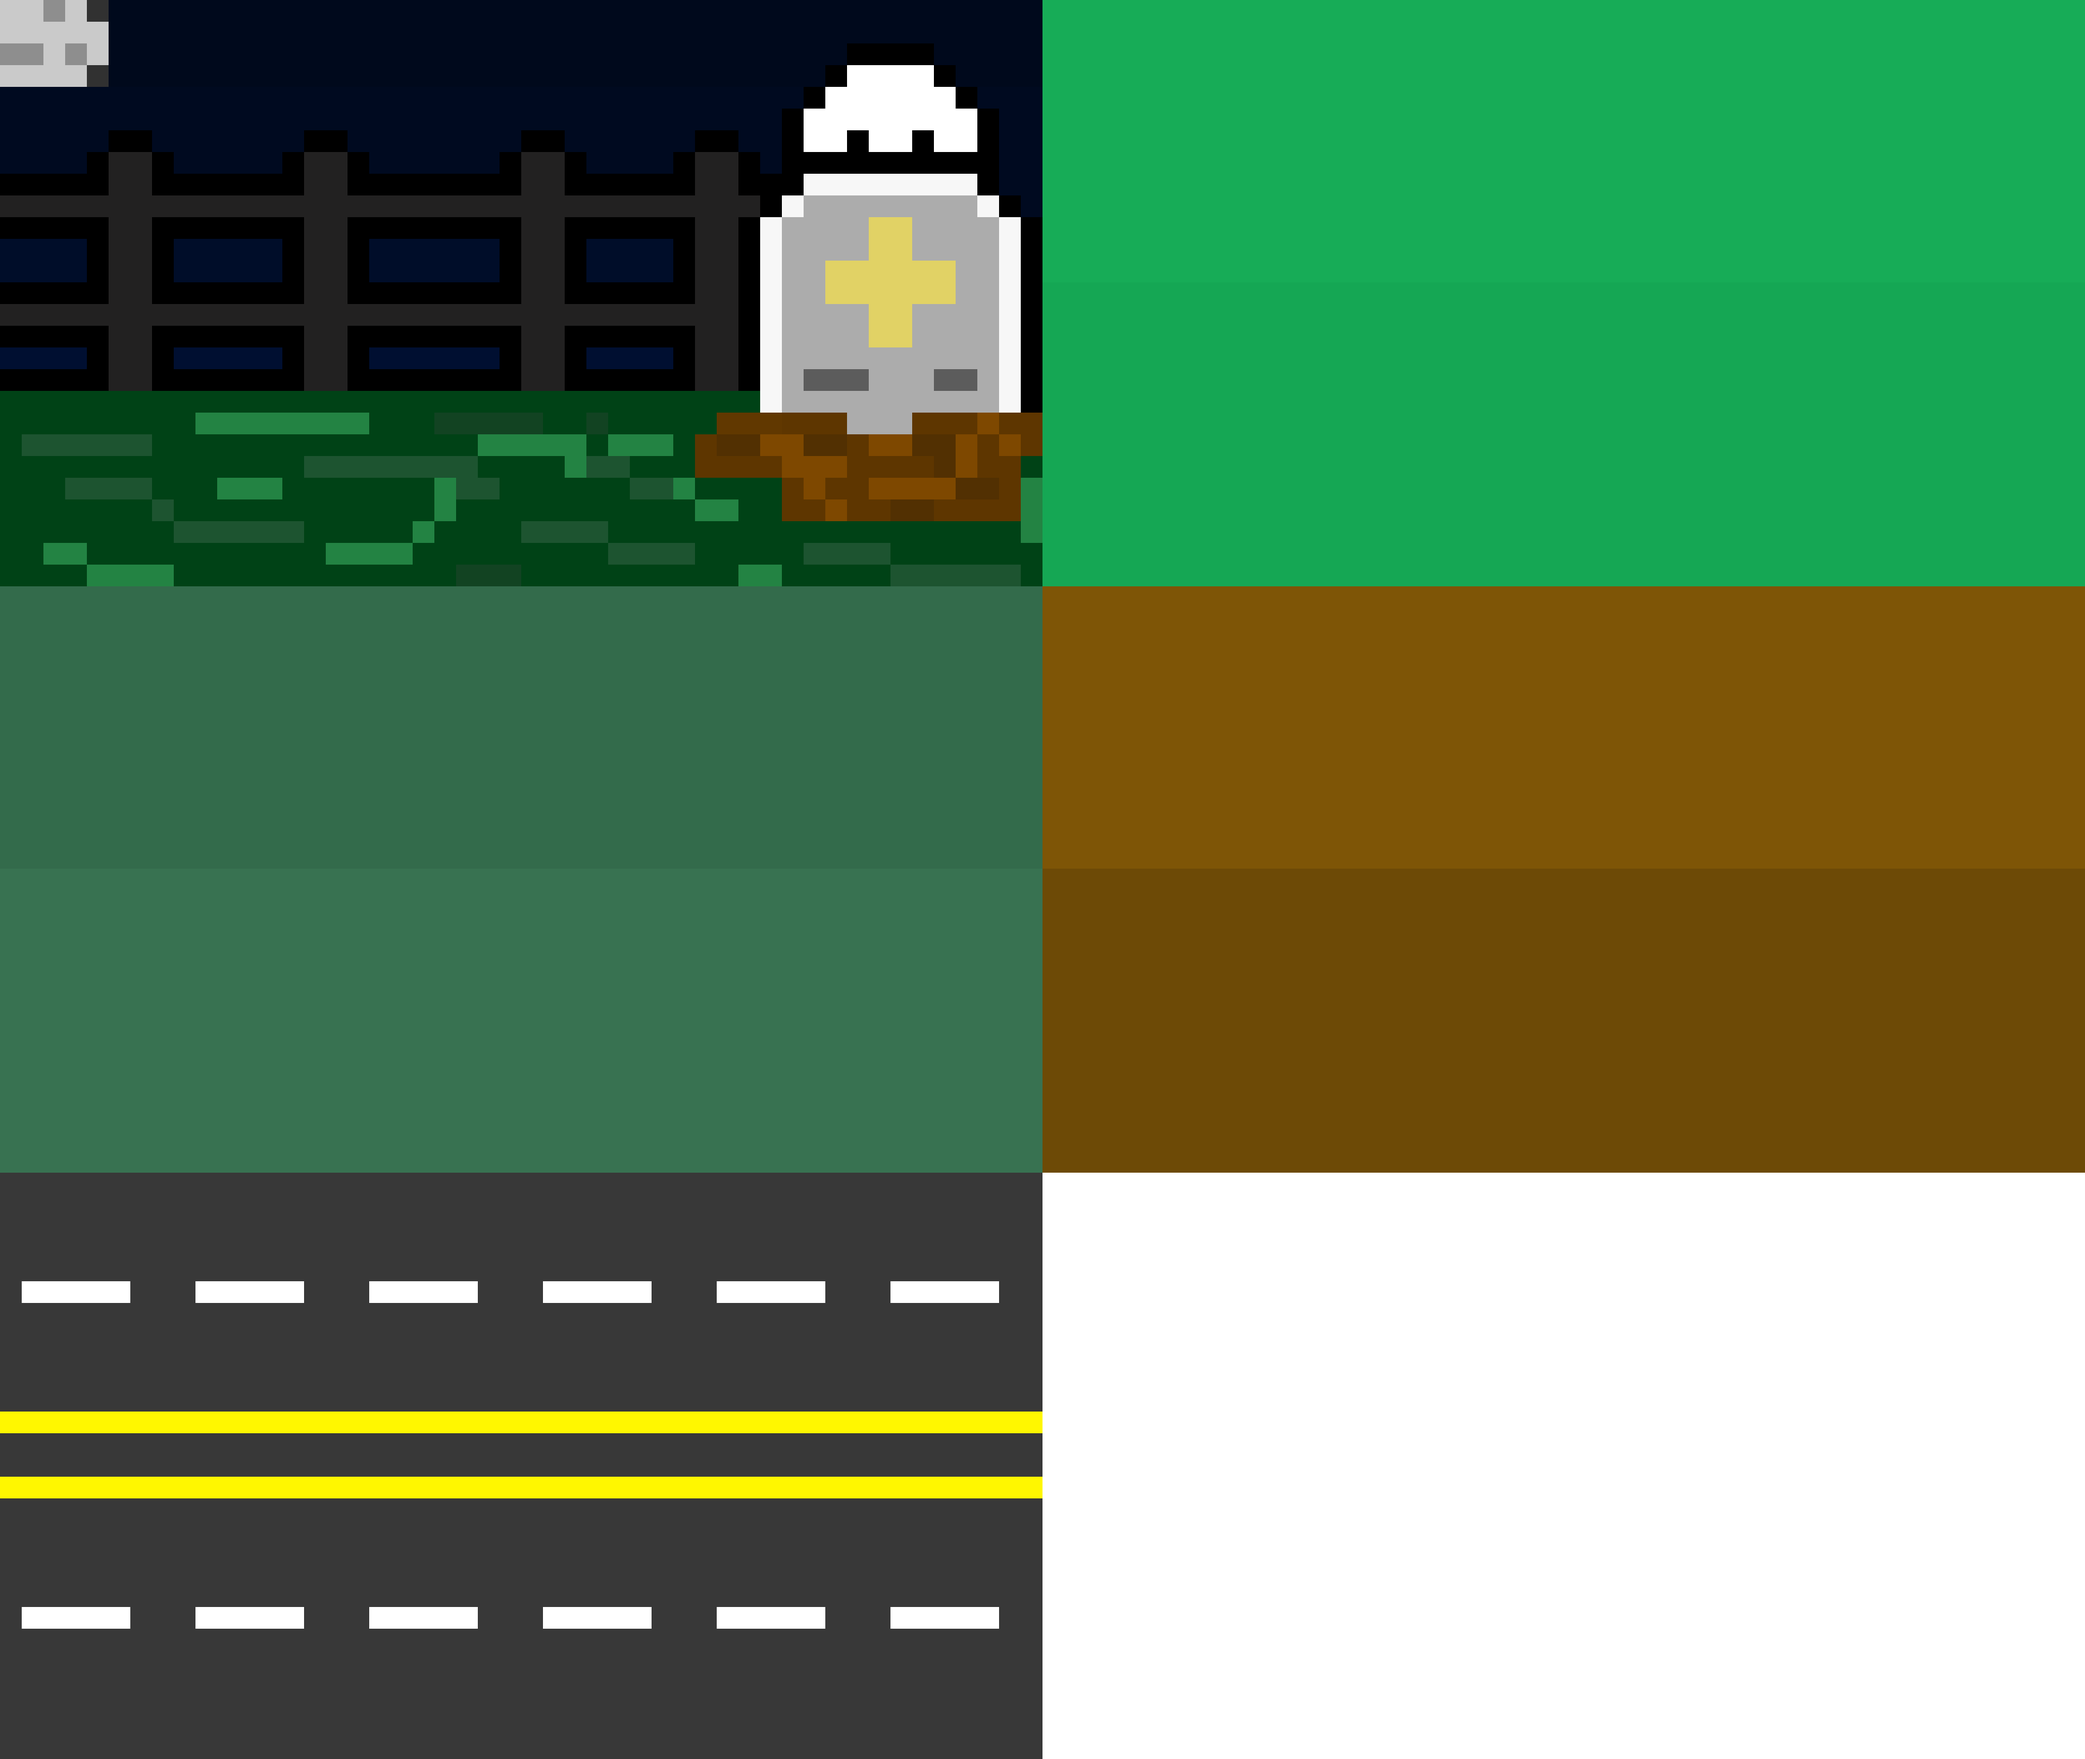
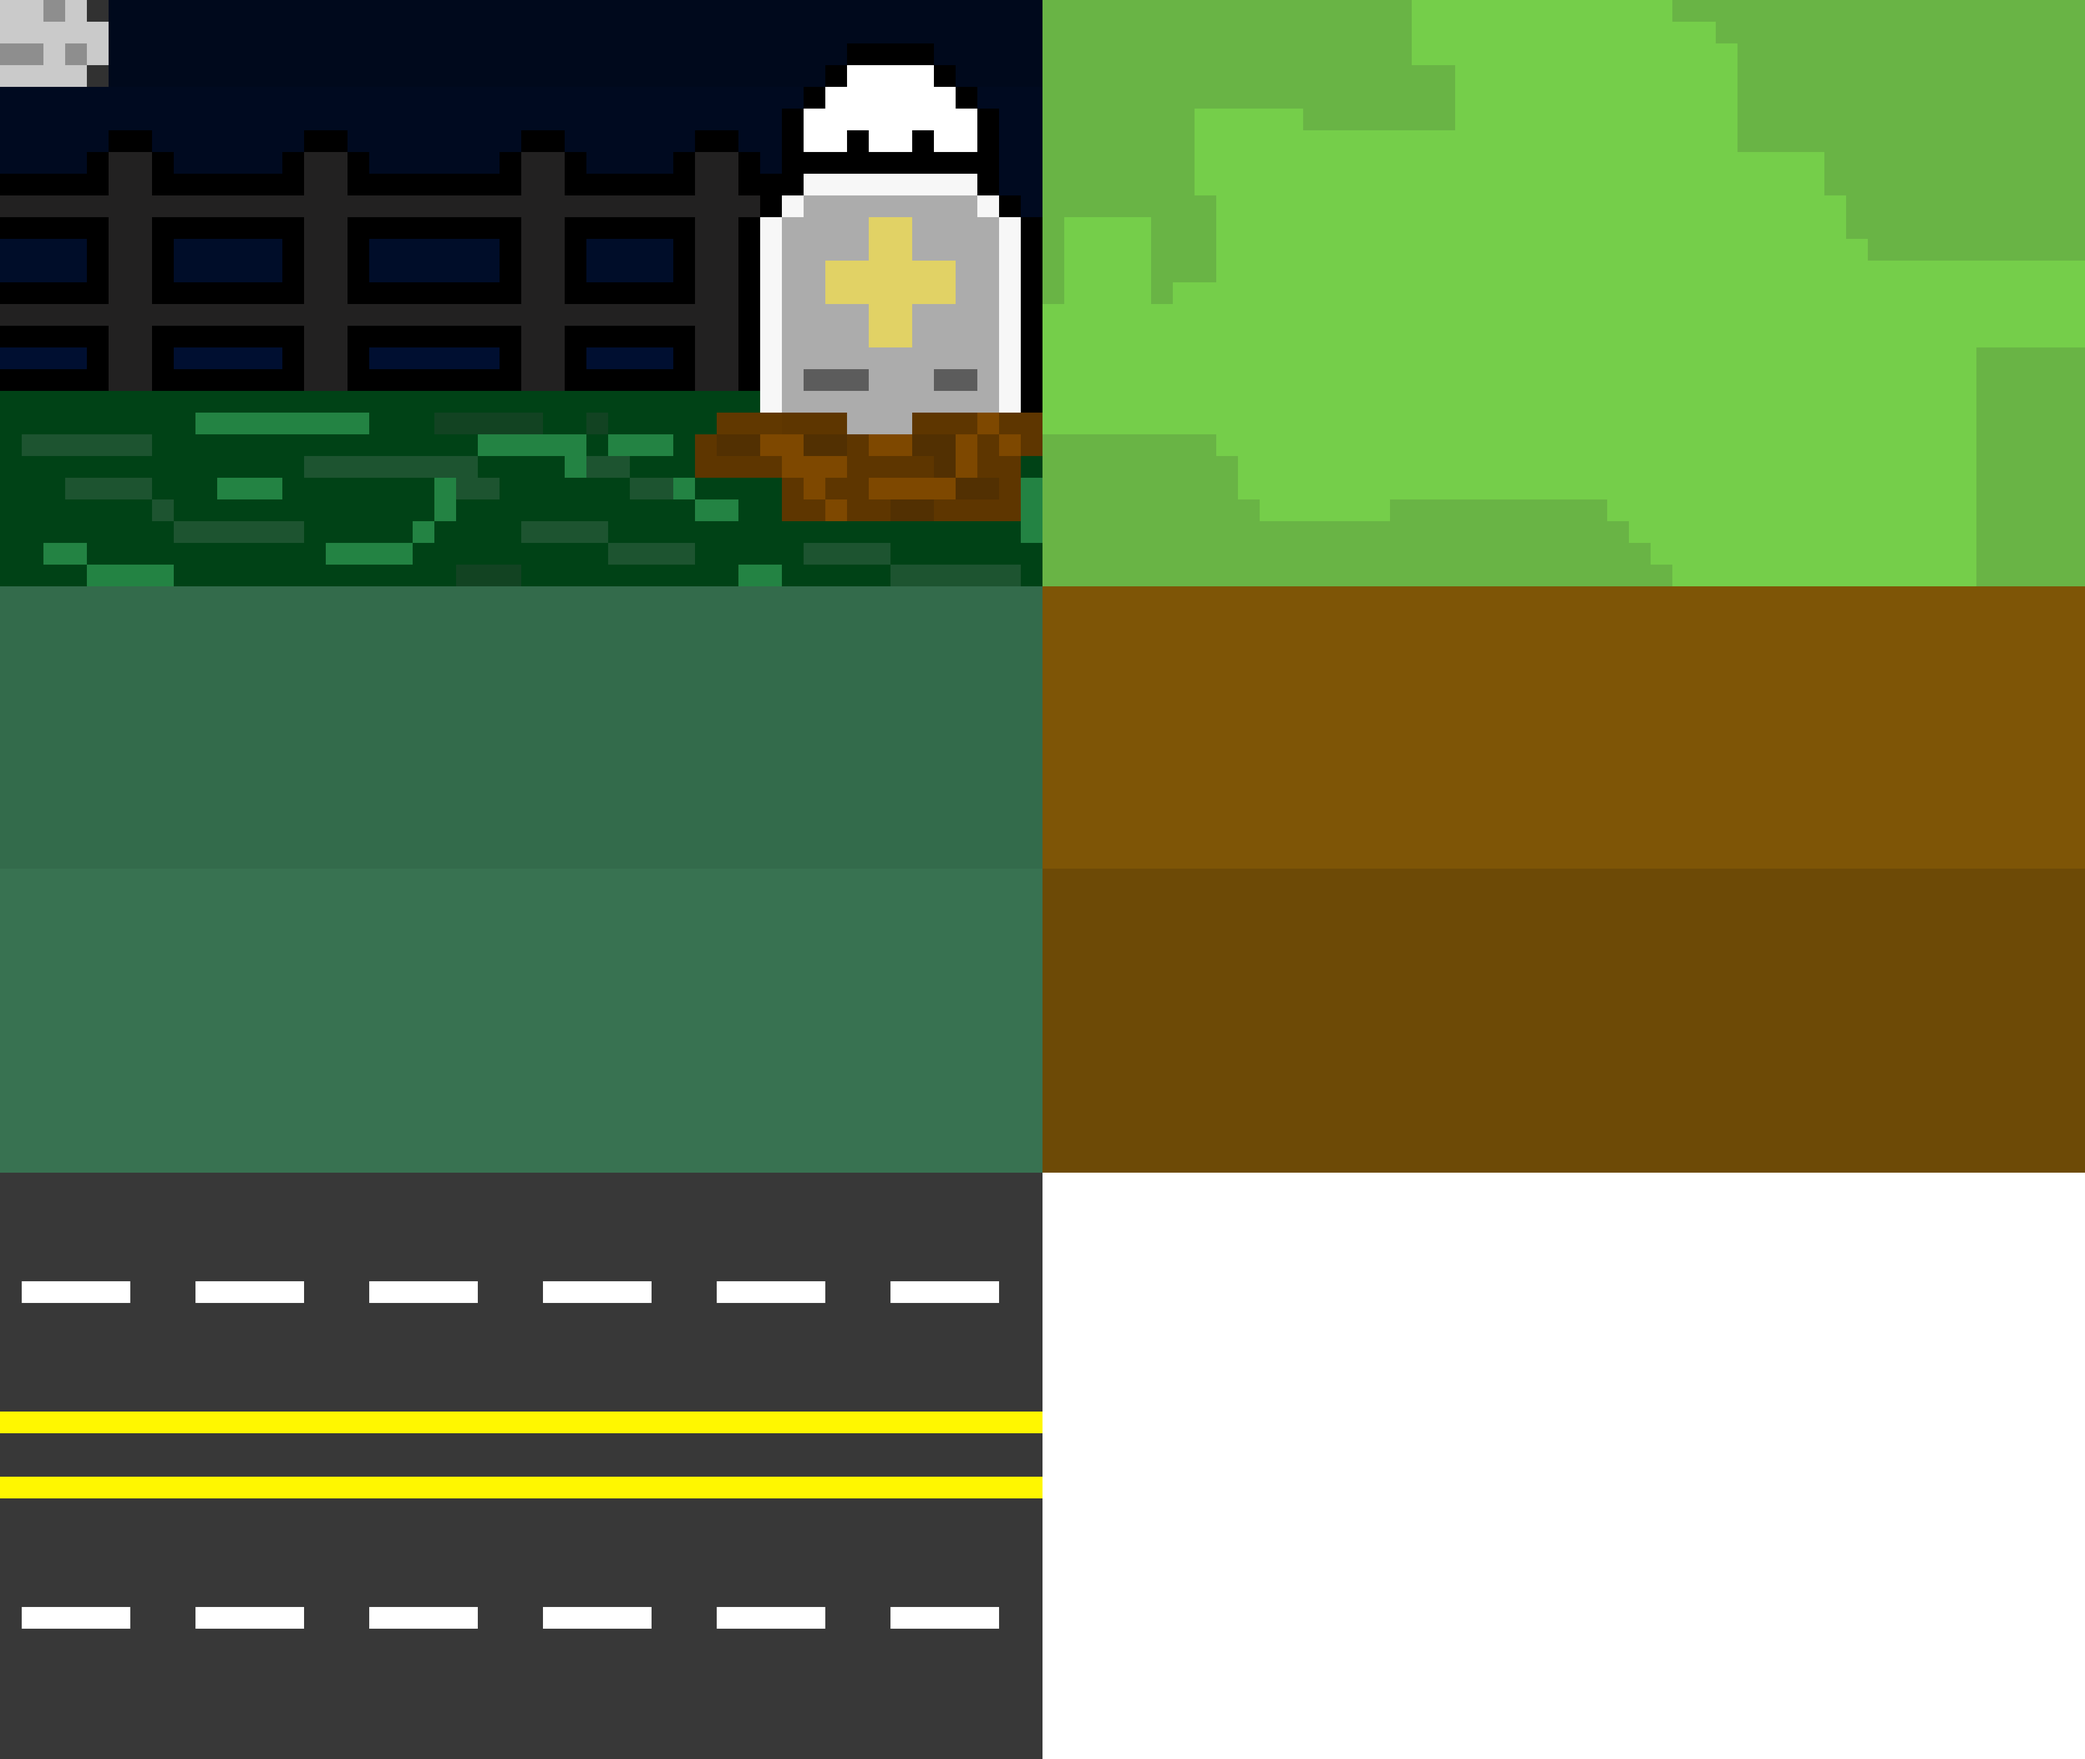
I have made the most cancerous thing known to mankind, a background

Changed region(s): [[0.5, 0.0, 1.0, 0.3429]]

diff --git a/Gabriel.c b/Gabriel.c
@@ -1,5 +1,7 @@
 
 #include "Gabriel.h"
+#include "game.h"
+
 void init_all_images(void)
 {
 	slowTurretImageArray[0] = CP_Image_Load("./Assets/SlowTurret1.png");
@@ -29,7 +31,7 @@ void init_all_images(void)
 	bulletSpriteSheet = CP_Image_Load("./Assets/TurretBullets.png");
 	bulletRadiusSpriteSheet = CP_Image_Load("./Assets/BulletsRadius.png");
 	currencySpriteSheet = CP_Image_Load("./Assets/Currency.png");
-	environmentObjectsSpriteSheet = CP_Image_Load("./Assets/Environment.png");
+	environmentObjectsSpriteSheet = CP_Image_Load("./Assets/GridEnvironmentObject.png");
 	backgroundSpriteSheet = CP_Image_Load("./Assets/Background.png");
 	portalEnterEffectSpriteSheet = CP_Image_Load("./Assets/PortalEnterEffect.png");
 	portalSpawnEffectSpriteSheet = CP_Image_Load("./Assets/EnemySpawnEffect.png");
@@ -38,6 +40,7 @@ void init_all_images(void)
 	backgroundUIFatSpriteSheet = CP_Image_Load("./Assets/BigUIDisplay.png");
 	interactableButtonsImageSpriteSheet = CP_Image_Load("./Assets/InteractableButtons.png");
 	turretStatsIconSpriteSheet = CP_Image_Load("./Assets/TurretStatsIcons.png");
+	nonGridEnvironmentObjectsSpriteSheet = CP_Image_Load("./Assets/EnvBackgroundObject.png");
 }
 
 
@@ -171,7 +174,7 @@ void init_spritesheet_array(void)
 	SpriteSheetCalculation(bulletArray, bulletSpriteSheet, 128, 128, 1);
 	SpriteSheetCalculation(bulletRadiusArray, bulletRadiusSpriteSheet, 128, 128, 0);
 	SpriteSheetCalculation(currencyArray, currencySpriteSheet, 128, 128, 1);
-	SpriteSheetCalculation(environmentObjectArray, environmentObjectsSpriteSheet, 128, 128, 1);
+	SpriteSheetCalculation(environmentObjectArray, environmentObjectsSpriteSheet, 128, 128, 0);
 	SpriteSheetCalculation(backgroundArray, backgroundSpriteSheet,1920,1080, 1);
 	SpriteSheetCalculation(portalEnterEffectArray, portalEnterEffectSpriteSheet, 128, 128, 0);
 	SpriteSheetCalculation(portalSpawnEffectArray, portalSpawnEffectSpriteSheet, 128, 128, 0);
@@ -180,6 +183,7 @@ void init_spritesheet_array(void)
 	SpriteSheetCalculation(backgroundUIFatArray, backgroundUIFatSpriteSheet, 128, 128, 0);
 	SpriteSheetCalculation(interactableButtonsImageArray, interactableButtonsImageSpriteSheet, 128, 72, 1);
 	SpriteSheetCalculation(turretStatsIconArray, turretStatsIconSpriteSheet, 128, 128, 1);
+	SpriteSheetCalculation(nonGridEnvironmentObjectsArray, nonGridEnvironmentObjectsSpriteSheet, 512, 512, 1);
 }
 
 void SpriteSheetCalculation(struct SpriteSheetImage* s, CP_Image image, int pixelWidth, int pixelHeight, int stopPoint)
@@ -224,8 +228,7 @@ void RenderWithAlphaChanged(CP_Image image, struct SpriteSheetImage s, float xPo
 
 void RenderNormal(CP_Image image, struct SpriteSheetImage s, float xPos, float yPos, float sizeOfImageX, float sizeOfImageY)
 {
-	CP_Image_DrawSubImage(image, xPos, yPos, sizeOfImageX, sizeOfImageY,
-		s.leftXPixel, s.topYPixel, s.rightXPixel, s.bottomYPixel, 255);
+	RenderWithAlphaChanged(image, s, xPos, yPos, sizeOfImageX, sizeOfImageY,255);
 }
 
 #pragma endregion
@@ -375,6 +378,69 @@ void render_game_background(int currentLevel)
 	case 0:
 		RenderWithAlphaChanged(backgroundSpriteSheet, backgroundArray[1], CP_System_GetWindowWidth() * 0.5,
 			CP_System_GetWindowHeight() * 0.5, CP_System_GetWindowWidth(), CP_System_GetWindowHeight(), 255);
+		RenderNormal(nonGridEnvironmentObjectsSpriteSheet, nonGridEnvironmentObjectsArray[1], 
+			CP_System_GetWindowWidth() * 0.85, CP_System_GetWindowHeight() * 0.85, 
+			CP_System_GetWindowWidth() * 0.3, CP_System_GetWindowWidth() * 0.3);
+
+		RenderWithAlphaChanged(nonGridEnvironmentObjectsSpriteSheet, nonGridEnvironmentObjectsArray[0],
+			CP_System_GetWindowWidth() * 0.15, CP_System_GetWindowHeight() * 0.1,
+			128 * scalingFactor, 128 * scalingFactor, 200);
+		RenderWithAlphaChanged(nonGridEnvironmentObjectsSpriteSheet, nonGridEnvironmentObjectsArray[0],
+			CP_System_GetWindowWidth() * 0.25, CP_System_GetWindowHeight() * 0.11,
+			128 * scalingFactor, 128 * scalingFactor, 200);
+		RenderWithAlphaChanged(nonGridEnvironmentObjectsSpriteSheet, nonGridEnvironmentObjectsArray[0],
+			CP_System_GetWindowWidth() * 0.35, CP_System_GetWindowHeight() * 0.1,
+			128 * scalingFactor, 128 * scalingFactor, 200);
+		RenderWithAlphaChanged(nonGridEnvironmentObjectsSpriteSheet, nonGridEnvironmentObjectsArray[0],
+			CP_System_GetWindowWidth() * 0.65, CP_System_GetWindowHeight() * 0.1,
+			128 * scalingFactor, 128 * scalingFactor, 200);
+		RenderWithAlphaChanged(nonGridEnvironmentObjectsSpriteSheet, nonGridEnvironmentObjectsArray[0],
+			CP_System_GetWindowWidth() * 0.75, CP_System_GetWindowHeight() * 0.11,
+			128 * scalingFactor, 128 * scalingFactor, 200);
+
+		RenderWithAlphaChanged(nonGridEnvironmentObjectsSpriteSheet, nonGridEnvironmentObjectsArray[0],
+			CP_System_GetWindowWidth() * 0.15, CP_System_GetWindowHeight() * 0.9,
+			128 * scalingFactor, 128 * scalingFactor, 200);
+		RenderWithAlphaChanged(nonGridEnvironmentObjectsSpriteSheet, nonGridEnvironmentObjectsArray[0],
+			CP_System_GetWindowWidth() * 0.25, CP_System_GetWindowHeight() * 0.89,
+			128 * scalingFactor, 128 * scalingFactor, 200);
+		RenderWithAlphaChanged(nonGridEnvironmentObjectsSpriteSheet, nonGridEnvironmentObjectsArray[0],
+			CP_System_GetWindowWidth() * 0.35, CP_System_GetWindowHeight() * 0.9,
+			128 * scalingFactor, 128 * scalingFactor, 200);
+		RenderWithAlphaChanged(nonGridEnvironmentObjectsSpriteSheet, nonGridEnvironmentObjectsArray[0],
+			CP_System_GetWindowWidth() * 0.45, CP_System_GetWindowHeight() * 0.9,
+			128 * scalingFactor, 128 * scalingFactor, 200);
+		RenderWithAlphaChanged(nonGridEnvironmentObjectsSpriteSheet, nonGridEnvironmentObjectsArray[0],
+			CP_System_GetWindowWidth() * 0.55, CP_System_GetWindowHeight() * 0.89,
+			128 * scalingFactor, 128 * scalingFactor, 200);
+
+		RenderNormal(nonGridEnvironmentObjectsSpriteSheet, nonGridEnvironmentObjectsArray[2],
+			CP_System_GetWindowWidth() * 0.3, CP_System_GetWindowHeight() * 0.3,
+			64 * scalingFactor, 64 * scalingFactor, 255);
+
+		RenderNormal(nonGridEnvironmentObjectsSpriteSheet, nonGridEnvironmentObjectsArray[2],
+			CP_System_GetWindowWidth() * 0.3, CP_System_GetWindowHeight() * 0.5,
+			64 * scalingFactor, 64 * scalingFactor);
+
+		RenderNormal(nonGridEnvironmentObjectsSpriteSheet, nonGridEnvironmentObjectsArray[2],
+			CP_System_GetWindowWidth() * 0.7, CP_System_GetWindowHeight() * 0.6,
+			64 * scalingFactor, 64 * scalingFactor);
+
+		RenderNormal(nonGridEnvironmentObjectsSpriteSheet, nonGridEnvironmentObjectsArray[2],
+			CP_System_GetWindowWidth() * 0.85, CP_System_GetWindowHeight() * 0.5,
+			64 * scalingFactor, 64 * scalingFactor);
+
+		RenderNormal(environmentObjectsSpriteSheet, environmentObjectArray[8],
+			CP_System_GetWindowWidth() * 0.95, CP_System_GetWindowHeight() * 0.55,
+			64 * scalingFactor, 64 * scalingFactor);
+
+		RenderNormal(environmentObjectsSpriteSheet, environmentObjectArray[8],
+			CP_System_GetWindowWidth() * 0.69, CP_System_GetWindowHeight() * 0.9,
+			64 * scalingFactor, 64 * scalingFactor);
+
+		RenderNormal(environmentObjectsSpriteSheet, environmentObjectArray[8],
+			CP_System_GetWindowWidth() * 0.25, CP_System_GetWindowHeight() * 0.75,
+			64 * scalingFactor, 64 * scalingFactor);
 		break;
 	case 1:
 		RenderWithAlphaChanged(backgroundSpriteSheet, backgroundArray[2], CP_System_GetWindowWidth() * 0.5,

diff --git a/ZhengWei.c b/ZhengWei.c
@@ -442,38 +442,12 @@ void level1_init(void) {
 	Level[0].waveEnemies[8][Basic] = 30;
 	Level[0].waveEnemies[9][Basic] = 30;
 
-	Level[0].waveEnemies[0][Fast_Ghost] = 0;
-	Level[0].waveEnemies[1][Fast_Ghost] = 0;
-	Level[0].waveEnemies[2][Fast_Ghost] = 0;
-	Level[0].waveEnemies[3][Fast_Ghost] = 0;
-	Level[0].waveEnemies[4][Fast_Ghost] = 0;
-	Level[0].waveEnemies[5][Fast_Ghost] = 0;
-	Level[0].waveEnemies[6][Fast_Ghost] = 0;
-	Level[0].waveEnemies[7][Fast_Ghost] = 0;
-	Level[0].waveEnemies[8][Fast_Ghost] = 0;
-	Level[0].waveEnemies[9][Fast_Ghost] = 0;
-
-	Level[0].waveEnemies[0][Fat_Ghost] = 0;
-	Level[0].waveEnemies[1][Fat_Ghost] = 0;
-	Level[0].waveEnemies[2][Fat_Ghost] = 0;
-	Level[0].waveEnemies[3][Fat_Ghost] = 0;
-	Level[0].waveEnemies[4][Fat_Ghost] = 0;
-	Level[0].waveEnemies[5][Fat_Ghost] = 0;
-	Level[0].waveEnemies[6][Fat_Ghost] = 0;
-	Level[0].waveEnemies[7][Fat_Ghost] = 0;
-	Level[0].waveEnemies[8][Fat_Ghost] = 0;
-	Level[0].waveEnemies[9][Fat_Ghost] = 0;
-
-	Level[0].waveEnemies[0][grimReaper] = 0;
-	Level[0].waveEnemies[1][grimReaper] = 0;
-	Level[0].waveEnemies[2][grimReaper] = 0;
-	Level[0].waveEnemies[3][grimReaper] = 0;
-	Level[0].waveEnemies[4][grimReaper] = 0;
-	Level[0].waveEnemies[5][grimReaper] = 0;
-	Level[0].waveEnemies[6][grimReaper] = 0;
-	Level[0].waveEnemies[7][grimReaper] = 0;
-	Level[0].waveEnemies[8][grimReaper] = 0;
-	Level[0].waveEnemies[9][grimReaper] = 0;
+	for (int i = 0; i < 10; i++)
+	{
+		Level[0].waveEnemies[i][Fast_Ghost] = 0;
+		Level[0].waveEnemies[i][Fat_Ghost] = 0;
+		Level[0].waveEnemies[i][grimReaper] = 0;
+	}
 }
 
 void level2_init(void) {
@@ -515,27 +489,12 @@ void level2_init(void) {
 	Level[1].waveEnemies[8][Fast_Ghost] = 10;
 	Level[1].waveEnemies[9][Fast_Ghost] = 15;
 
-	Level[1].waveEnemies[0][Fat_Ghost] = 0;
-	Level[1].waveEnemies[1][Fat_Ghost] = 0;
-	Level[1].waveEnemies[2][Fat_Ghost] = 0;
-	Level[1].waveEnemies[3][Fat_Ghost] = 0;
-	Level[1].waveEnemies[4][Fat_Ghost] = 0;
-	Level[1].waveEnemies[5][Fat_Ghost] = 0;
-	Level[1].waveEnemies[6][Fat_Ghost] = 0;
-	Level[1].waveEnemies[7][Fat_Ghost] = 0;
-	Level[1].waveEnemies[8][Fat_Ghost] = 0;
-	Level[1].waveEnemies[9][Fat_Ghost] = 0;
+	for (int i = 0; i < 10; i++)
+	{
+		Level[1].waveEnemies[i][Fat_Ghost] = 0;
+		Level[1].waveEnemies[i][grimReaper] = 0;
+	}
 
-	Level[1].waveEnemies[0][grimReaper] = 0;
-	Level[1].waveEnemies[1][grimReaper] = 0;
-	Level[1].waveEnemies[2][grimReaper] = 0;
-	Level[1].waveEnemies[3][grimReaper] = 0;
-	Level[1].waveEnemies[4][grimReaper] = 0;
-	Level[1].waveEnemies[5][grimReaper] = 0;
-	Level[1].waveEnemies[6][grimReaper] = 0;
-	Level[1].waveEnemies[7][grimReaper] = 0;
-	Level[1].waveEnemies[8][grimReaper] = 0;
-	Level[1].waveEnemies[9][grimReaper] = 0;
 }
 
 void level3_init(void) {
@@ -589,16 +548,10 @@ void level3_init(void) {
 	Level[2].waveEnemies[8][Fat_Ghost] = 10;
 	Level[2].waveEnemies[9][Fat_Ghost] = 10;
 
-	Level[2].waveEnemies[0][grimReaper] = 0;
-	Level[2].waveEnemies[1][grimReaper] = 0;
-	Level[2].waveEnemies[2][grimReaper] = 0;
-	Level[2].waveEnemies[3][grimReaper] = 0;
-	Level[2].waveEnemies[4][grimReaper] = 0;
-	Level[2].waveEnemies[5][grimReaper] = 0;
-	Level[2].waveEnemies[6][grimReaper] = 0;
-	Level[2].waveEnemies[7][grimReaper] = 0;
-	Level[2].waveEnemies[8][grimReaper] = 0;
-	Level[2].waveEnemies[9][grimReaper] = 0;
+	for (int i = 0; i < 10; i++)
+	{
+		Level[2].waveEnemies[i][grimReaper] = 0;
+	}
 }
 
 void level4_init(void) {

diff --git a/Gabriel.h b/Gabriel.h
@@ -60,6 +60,7 @@ CP_Image battlefieldEffectIconSpriteSheet;
 CP_Image backgroundUIFatSpriteSheet;
 CP_Image interactableButtonsImageSpriteSheet;
 CP_Image turretStatsIconSpriteSheet;
+CP_Image nonGridEnvironmentObjectsSpriteSheet;
 
 struct SpriteSheetImage basicGhostSpriteArray[3];
 struct SpriteSheetImage fastGhostSpriteArray[3];
@@ -74,7 +75,7 @@ struct SpriteSheetImage energyWallArray[2];
 struct SpriteSheetImage bulletArray[3];
 struct SpriteSheetImage bulletRadiusArray[4];
 struct SpriteSheetImage currencyArray[5];
-struct SpriteSheetImage environmentObjectArray[8];
+struct SpriteSheetImage environmentObjectArray[9];
 struct SpriteSheetImage backgroundArray[5];
 struct SpriteSheetImage portalEnterEffectArray[4];
 struct SpriteSheetImage portalSpawnEffectArray[4];
@@ -82,8 +83,10 @@ struct SpriteSheetImage powerUpIconArray[4];
 struct SpriteSheetImage battlefieldEffectIconArray[12];
 struct SpriteSheetImage backgroundUIFatArray[2];
 struct SpriteSheetImage interactableButtonsImageArray[3];
-struct PortalVariables portalVariablesArray[2];
 struct SpriteSheetImage turretStatsIconArray[5];
+struct SpriteSheetImage nonGridEnvironmentObjectsArray[3];
+
+struct PortalVariables portalVariablesArray[2];
 
 struct node* bulletRadiusFirstNode;
 int bulletRadiusNodeKeyNumber;
